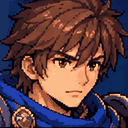
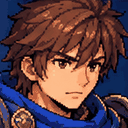
Fase 1A: retrato neutral piloto con 64 colores y recorte sin sombra del marco
Claude-Session: https://claude.ai/code/session_01NgFKeX9LCW3atzp3xWrnWJ

diff --git a/tools/extract_warrior_portraits.py b/tools/extract_warrior_portraits.py
@@ -2,8 +2,8 @@
 """Extrae retratos del Guerrero desde la lámina de referencia (docs/art/reference/warrior_reference_2.png).
 
 FASE 1A (piloto): solo el retrato "neutral". Salida en docs/art/wip/; no toca assets/ ni el juego.
-Pasos: recorte cuadrado dentro del marco dorado (sin marco ni etiqueta) -> reducción a 128x128 por interpolación
-Lanczos -> cuantización a una paleta limitada, sin tramado. El fondo azul se conserva opaco.
+Pasos: recorte cuadrado dentro del marco dorado (sin marco, sombra del marco ni etiqueta) -> reducción a 128x128 por
+interpolación Lanczos -> cuantización a 64 colores, sin tramado. El fondo azul se conserva opaco.
 
 Uso: python3 tools/extract_warrior_portraits.py   (requiere Pillow y numpy)
 """
@@ -17,10 +17,11 @@ REF = ROOT / "docs" / "art" / "reference" / "warrior_reference_2.png"
 OUT = ROOT / "docs" / "art" / "wip"
 
 # Coordenadas dentro de la lámina (x, y, lado). Marco dorado del neutral: x 798-799 y 956, y 56-57 y 208.
-# Se recortan 148x148 px bien dentro del marco (1-4 px de margen) para no arrastrar píxeles dorados.
-TILES = {"neutral": (804, 59, 148)}
+# Se recortan 146x146 px bien dentro del marco. Las filas 205-206 son sombra del marco (luminancia 53 y 23 frente a ~62),
+# por eso el recorte termina en la fila 204.
+TILES = {"neutral": (805, 59, 146)}
 SIZE = 128
-PALETTE_SIZES = (32, 48, 64)
+PALETTE_SIZES = (64,)  # aprobado: 64 colores
 
 
 def crop_tile(ref: Image.Image, name: str) -> Image.Image:
@@ -60,7 +61,7 @@ def main() -> None:
 	tile = crop_tile(ref, "neutral")
 	small = downscale(tile)
 	variants = {n: quantize(small, n) for n in PALETTE_SIZES}
-	chosen = variants[48]
+	chosen = variants[64]
 	chosen.save(OUT / "warrior_portrait_neutral_ref_pilot_128.png")
 
 	# Pérdida por reducción: volver a ampliar a 148 y comparar con el recorte original.
@@ -68,7 +69,7 @@ def main() -> None:
 	r_psnr, r_mae, r_bad, _ = psnr_mae(tile, back)
 	print(f"Recorte original {tile.size}: {color_count(tile)} colores, nitidez {sharpness(tile):.2f}")
 	print(f"Reducido a {small.size}: {color_count(small)} colores, nitidez {sharpness(small):.2f}")
-	print(f"  pérdida por reducción (148->128->148): PSNR {r_psnr:.1f} dB, error medio {r_mae:.2f}/255, píxeles con error>24: {r_bad:.1f}%")
+	print(f"  pérdida por reducción (146->128->146): PSNR {r_psnr:.1f} dB, error medio {r_mae:.2f}/255, píxeles con error>24: {r_bad:.1f}%")
 	for n, q in variants.items():
 		p, m, bad, mx = psnr_mae(small, q)
 		print(f"  cuantizado a {n} colores (reales: {color_count(q)}): PSNR {p:.1f} dB, error medio {m:.2f}/255, "
@@ -89,15 +90,6 @@ def main() -> None:
 		board.paste(t, (x, 10))
 		x += t.width + 10
 	board.save(OUT / "warrior_portrait_neutral_ref_pilot_compare.png")
-
-	# Variantes de paleta lado a lado (x5).
-	row = [variants[n].resize((SIZE * 5, SIZE * 5), Image.NEAREST) for n in PALETTE_SIZES]
-	pal = Image.new("RGB", (sum(t.width for t in row) + 40, row[0].height + 20), (14, 18, 28))
-	x = 10
-	for t in row:
-		pal.paste(t, (x, 10))
-		x += t.width + 10
-	pal.save(OUT / "warrior_portrait_neutral_ref_pilot_palettes.png")
 
 
 if __name__ == "__main__":
